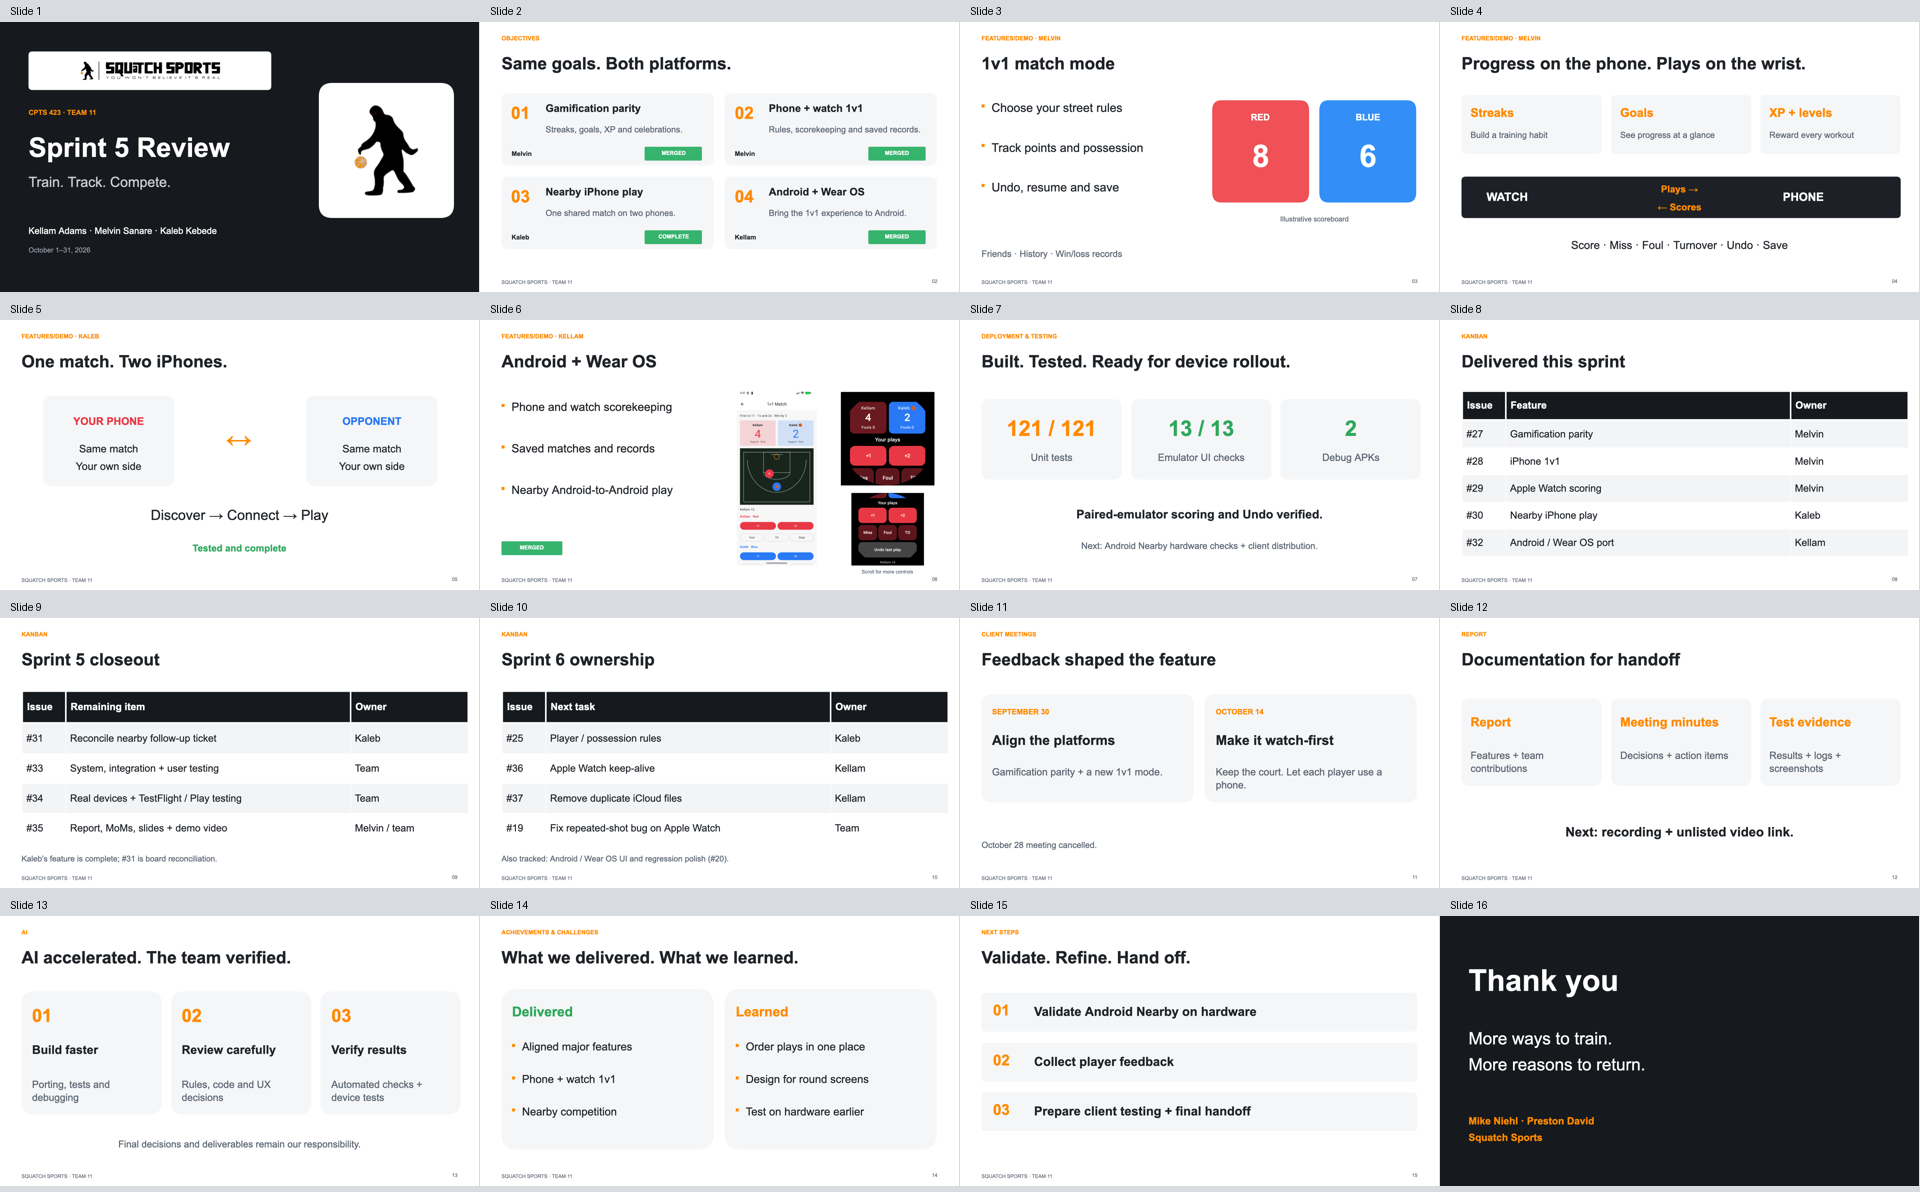
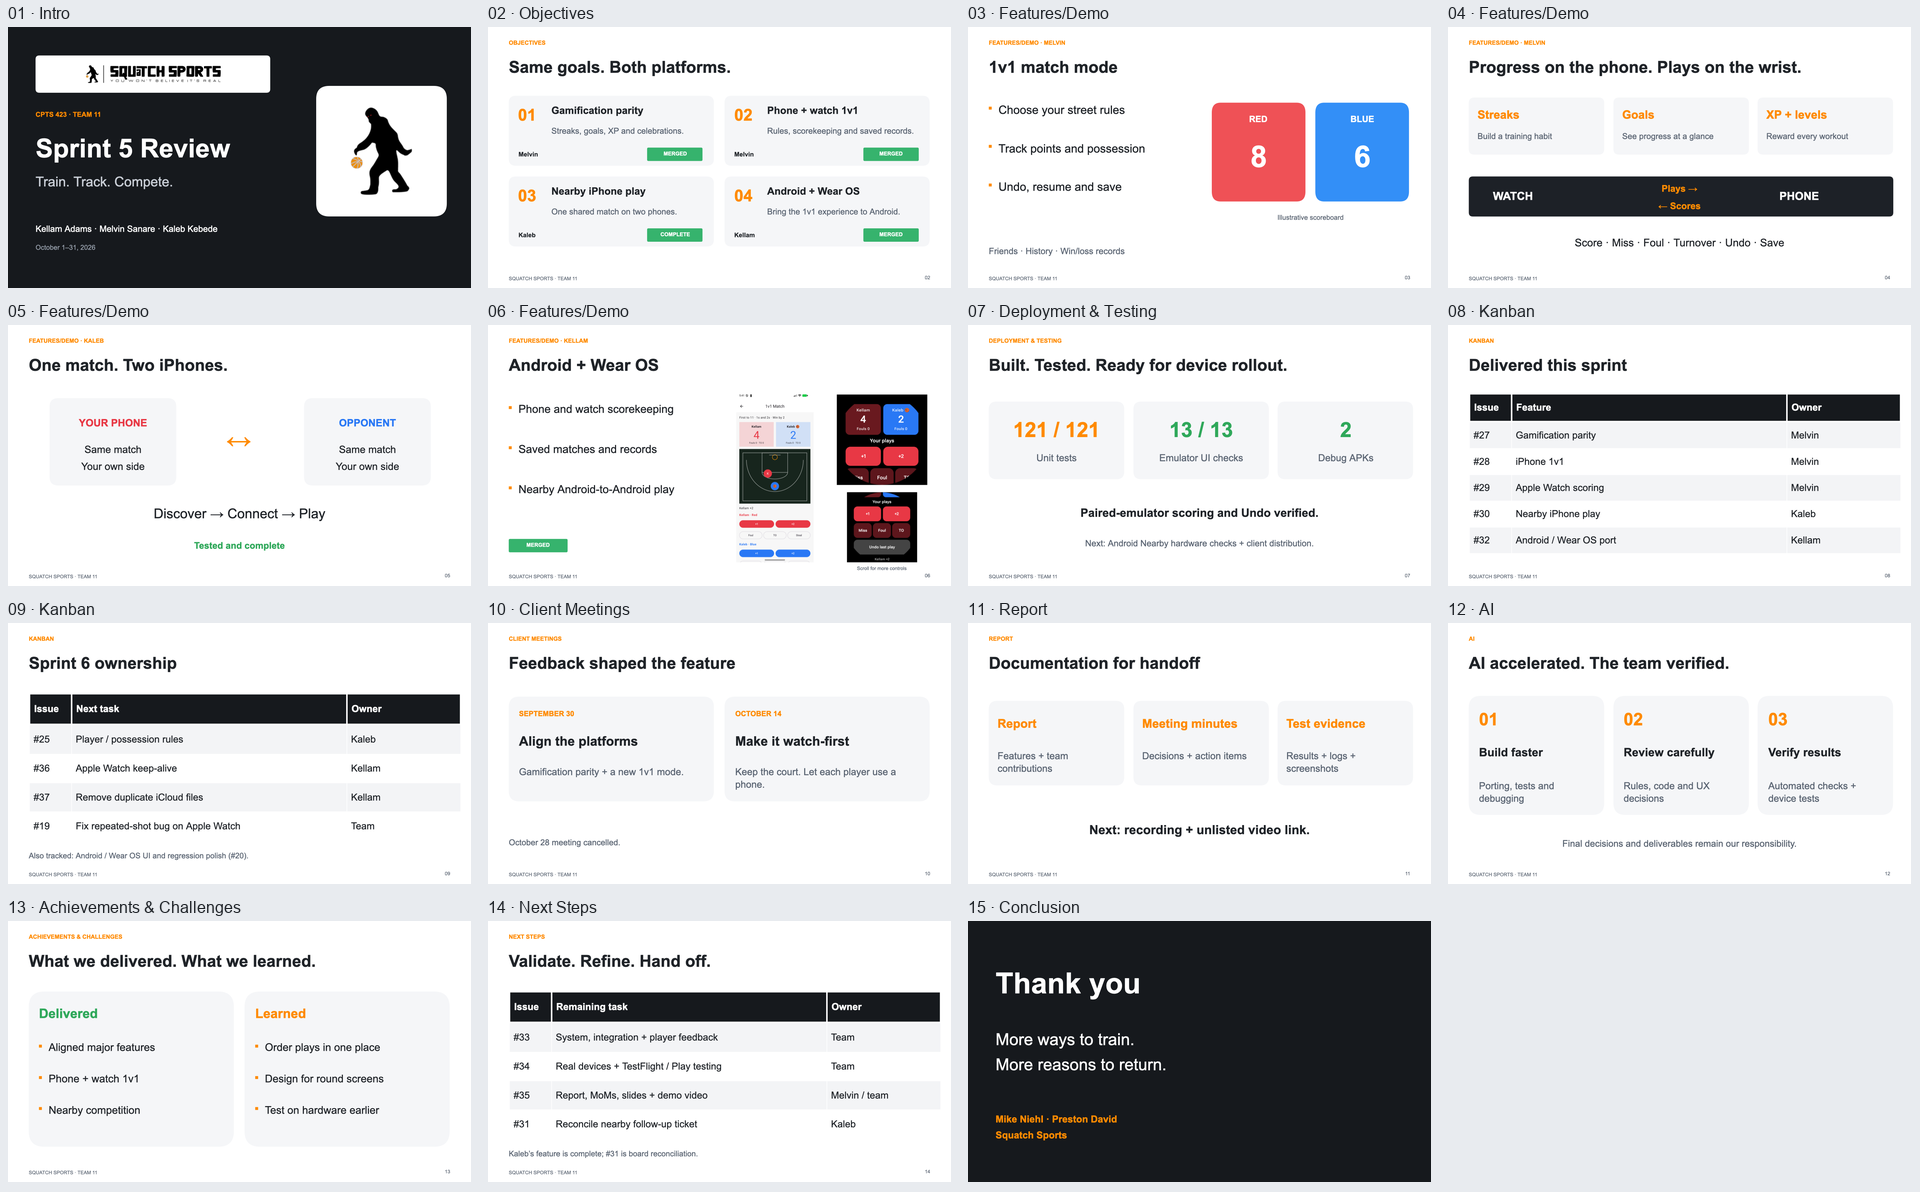
Remove separate Sprint 5 closeout slide and retain tasks in Next Steps

diff --git a/Sprints/Sprint_5/PPT/Sprint5_Presenter_Notes.md b/Sprints/Sprint_5/PPT/Sprint5_Presenter_Notes.md
@@ -1,6 +1,6 @@
 # Sprint 5 presenter notes
 
-Minimal 16-slide review. The full closeout and upcoming task lists stay visible; technical detail, source attribution and live-demo cues remain in the notes.
+Minimal 15-slide review. The separate Sprint 5 closeout slide is removed; remaining Sprint 5 tasks stay visible in Next Steps, and the Sprint 6 backlog stays visible in Kanban.
 
 Required order: Intro → Objectives → Features/Demo → Deployment & Testing → Kanban → Client Meetings → Report → AI → Achievements & Challenges → Next Steps → Conclusion
 
@@ -62,47 +62,41 @@ Sources: https://github.com/KellamA/Squatch-Sports-Team-11-Capstone-Project/issu
 
 ## Slide 9 — Kanban · Melvin (~35s)
 
-These Sprint 5 closeout items remain visible rather than being hidden in the notes. Issue 33 covers system/integration checks, latency and user feedback. Issue 34 covers physical devices and client TestFlight/Play internal testing. Issue 35 includes the report, meeting minutes, slides and actual recorded demo/video link; the presentation does not imply the video has been uploaded. Kaleb’s nearby feature is considered tested and complete per Kellam’s confirmation. The existing GitHub ticket 31 is still open, so its remaining presentation item is reconciling the board with that confirmed completion, not claiming the feature is untested.
-
-Sources: https://github.com/KellamA/Squatch-Sports-Team-11-Capstone-Project/issues/31; https://github.com/KellamA/Squatch-Sports-Team-11-Capstone-Project/issues/33; https://github.com/KellamA/Squatch-Sports-Team-11-Capstone-Project/issues/34; https://github.com/KellamA/Squatch-Sports-Team-11-Capstone-Project/issues/35
-
-## Slide 10 — Kanban · Melvin (~35s)
-
-The upcoming work stays visible: player/possession restrictions, Apple Watch workout keep-alive, duplicate-file cleanup and the older repeated-shot bug. Kellam owns issues 36 and 37 in this presentation as requested; the slide edit does not change GitHub assignee fields. Android/Wear OS UI, regression polish and the remaining edge cases also stay tracked under issue 20. The full Sprint 5 closeout work is on the previous slide so the backlog can be read without dense text or hiding tasks in the notes.
+The upcoming work stays visible: player/possession restrictions, Apple Watch workout keep-alive, duplicate-file cleanup and the older repeated-shot bug. Kellam owns issues 36 and 37 in this presentation as requested; the slide edit does not change GitHub assignee fields. Android/Wear OS UI, regression polish and the remaining edge cases also stay tracked under issue 20. The remaining Sprint 5 work is visible in the required Next Steps section; a separate closeout slide is not needed.
 
 Sources: https://github.com/KellamA/Squatch-Sports-Team-11-Capstone-Project/issues/25; https://github.com/KellamA/Squatch-Sports-Team-11-Capstone-Project/issues/36; https://github.com/KellamA/Squatch-Sports-Team-11-Capstone-Project/issues/37; https://github.com/KellamA/Squatch-Sports-Team-11-Capstone-Project/issues/19; https://github.com/KellamA/Squatch-Sports-Team-11-Capstone-Project/issues/20
 
-## Slide 11 — Client Meetings · Kaleb (~35s)
+## Slide 10 — Client Meetings · Kaleb (~35s)
 
 The September 30 Sprint 4 demo/planning meeting set parity and 1v1 as the next goals, with Apple implementation first and Android/Wear OS porting afterward. The October 14 review emphasized wrist input, preserving the existing court, and letting each player use their own phone. Online accounts were left for later. October 28 was cancelled and is not counted as a held meeting. Melvin’s documentation branch contains both minutes.
 
 Sources: https://github.com/KellamA/Squatch-Sports-Team-11-Capstone-Project/blob/melvin-sprint5-docs/Sprints/Sprint_5/MoM/MoM_2026-09-30.md; https://github.com/KellamA/Squatch-Sports-Team-11-Capstone-Project/blob/melvin-sprint5-docs/Sprints/Sprint_5/MoM/MoM_2026-10-14.md
 
-## Slide 12 — Report · Kaleb (~30s)
+## Slide 11 — Report · Kaleb (~30s)
 
 The report and meeting minutes were sourced from Melvin’s documentation branch, commit 86171e9. That draft predates the Android merge and latest team confirmation, so reconcile its old pending/local-only wording before submission. The Android verification package includes the screenshot, actual Gradle logs, JSON summaries and APK hashes. The presentation and speaker scripts are ready. The recording and actual unlisted video URL still need to be produced; no course submission, upload or client release is being claimed.
 
 Sources: https://github.com/KellamA/Squatch-Sports-Team-11-Capstone-Project/blob/melvin-sprint5-docs/Sprints/Sprint_5/Sprint_Report/Sprint5_Report.md; https://github.com/KellamA/Squatch-Sports-Team-11-Capstone-Project/tree/melvin-sprint5-docs/Sprints/Sprint_5/MoM; Sprints/Sprint_5/Testing/Android_Verification.md; https://github.com/KellamA/Squatch-Sports-Team-11-Capstone-Project/issues/35
 
-## Slide 13 — AI · Melvin (~45s)
+## Slide 12 — AI · Melvin (~45s)
 
 AI coding tools accelerated Swift-to-Kotlin porting, feature implementation, tests and diagnosis of emulator/toolchain issues. AI also helped organize this deck and the evidence package. Humans chose the gameplay rules, team split, watch UX and acceptance standards. A build or generated test alone cannot prove real-device radio behavior; the team reviews code and tests it in context. Kaleb’s iPhone testing is team-provided confirmation, distinct from the Android tests reproduced here. We remain responsible for the result and for completing the outstanding hardware and release checks.
 
 Sources: https://github.com/KellamA/Squatch-Sports-Team-11-Capstone-Project/blob/melvin-sprint5-docs/Sprints/Sprint_5/Sprint_Report/Sprint5_Report.md; Sprints/Sprint_5/Testing/Android_Verification.md
 
-## Slide 14 — Achievements & Challenges · Team (~45s)
+## Slide 13 — Achievements & Challenges · Team (~45s)
 
 The achievement is a full path from training and rewards into phone/watch 1v1 and nearby competition within each platform. Ordering guest commands at one host, saving IDs and replaying event logs handle duplicate and delayed plays. The Android SDK mismatch was solved by pinning a Nearby release compatible with the project’s Kotlin compiler rather than bypassing checks. Round watches require large controls plus scrolling/paging; we are not claiming that every screen is validated on every device. Kaleb’s feature is complete per team confirmation. Android physical Nearby checks, latency, client distribution and collected user feedback remain the key unfinished acceptance work.
 
 Sources: https://github.com/KellamA/Squatch-Sports-Team-11-Capstone-Project/blob/melvin-sprint5-docs/Sprints/Sprint_5/Sprint_Report/Sprint5_Report.md; android/README.md; android/gradle/libs.versions.toml
 
-## Slide 15 — Next Steps · Kellam (~40s)
+## Slide 14 — Next Steps · Kellam (~40s)
 
-The implementation is already merged, so the next work is acceptance and handoff rather than another Android publishing task. Test Android Nearby with two real phones and paired watches, record latency/reconnect behavior, collect actual player feedback and coordinate TestFlight/Play internal distribution with the client. Rehearse and record this sprint review, add the unlisted link and reconcile the report. Sprint 6 ownership is shown in the Kanban slide: Kaleb handles possession restrictions, and Kellam handles Apple Watch keep-alive plus repository cleanup. Mixed Android–iPhone games require a shared transport or backend and are not delivered here.
+The implementation is already merged, so the next work is acceptance and handoff rather than another Android publishing task. Issue 33 covers system/integration checks, latency, reconnect behavior and actual player feedback. Issue 34 covers physical-device checks and client TestFlight/Play internal distribution. Test Android Nearby with two real phones and paired watches. Issue 35 includes finishing the report, meeting minutes and slides, recording the review and adding the actual unlisted video URL; no upload is claimed. Kaleb’s nearby feature is tested and complete per team confirmation; issue 31 is board reconciliation, not unfinished feature work. Sprint 6 ownership stays visible in Kanban: Kaleb handles possession restrictions, and Kellam handles Apple Watch keep-alive plus repository cleanup. Mixed Android–iPhone games require a shared transport or backend and are not delivered here.
 
-Sources: https://github.com/KellamA/Squatch-Sports-Team-11-Capstone-Project/issues/33; https://github.com/KellamA/Squatch-Sports-Team-11-Capstone-Project/issues/34; https://github.com/KellamA/Squatch-Sports-Team-11-Capstone-Project/issues/35; https://github.com/KellamA/Squatch-Sports-Team-11-Capstone-Project/issues/25; https://github.com/KellamA/Squatch-Sports-Team-11-Capstone-Project/issues/36; https://github.com/KellamA/Squatch-Sports-Team-11-Capstone-Project/issues/37
+Sources: https://github.com/KellamA/Squatch-Sports-Team-11-Capstone-Project/issues/33; https://github.com/KellamA/Squatch-Sports-Team-11-Capstone-Project/issues/34; https://github.com/KellamA/Squatch-Sports-Team-11-Capstone-Project/issues/35; https://github.com/KellamA/Squatch-Sports-Team-11-Capstone-Project/issues/31; https://github.com/KellamA/Squatch-Sports-Team-11-Capstone-Project/issues/25; https://github.com/KellamA/Squatch-Sports-Team-11-Capstone-Project/issues/36; https://github.com/KellamA/Squatch-Sports-Team-11-Capstone-Project/issues/37
 
-## Slide 16 — Conclusion · Kellam (~20s)
+## Slide 15 — Conclusion · Kellam (~20s)
 
 Sprint 5 aligns the major feature set, adds 1v1 on phones and watches, and enables nearby games within each platform ecosystem. The Android port is merged; Kaleb’s nearby feature is tested and complete per team confirmation. Android hardware acceptance and client rollout are next. Thank you to Mike and Preston at Squatch Sports. We welcome questions and feedback.
 

diff --git a/Sprints/Sprint_5/PPT/README.md b/Sprints/Sprint_5/PPT/README.md
@@ -3,8 +3,8 @@
 ## Ready to use
 
 - **Deck:** [Sprint5_Review.pptx](Sprint5_Review.pptx)
-- **Slide overview:** [Slide_Overview.png](Slide_Overview.png) — native QuickLook renders of all 16 slides.
-- **Speaker scripts:** [Sprint5_Presenter_Notes.md](Sprint5_Presenter_Notes.md) — also embedded in all 16 slides.
+- **Slide overview:** [Slide_Overview.png](Slide_Overview.png) — native QuickLook renders of all 15 slides.
+- **Speaker scripts:** [Sprint5_Presenter_Notes.md](Sprint5_Presenter_Notes.md) — also embedded in all 15 slides.
 - **Recording plan:** [../Video/Sprint5_Demo.md](../Video/Sprint5_Demo.md)
 - **Build/test screenshot:** [../Testing/Android_Test_Results.png](../Testing/Android_Test_Results.png)
 - **Verification and handoff text:** [../Testing/Android_Verification.md](../Testing/Android_Verification.md)
@@ -19,7 +19,7 @@
 
 ## Minimal layout and required order
 
-This revision has **16 slides**, keeping the minimal visual style without dropping the backlog. Shorter titles, larger text, three-point feature summaries and simple Kanban tables replace dense status explanations. The complete Sprint 5 closeout and Sprint 6 task lists are visible on separate slides; only technical detail, source attribution, testing limits and demo instructions move into the notes. Kellam remains the owner shown for #36 and #37; the ordinary **MERGED** badge matches the other merged objectives.
+This revision has **15 slides**. The separate Sprint 5 Closeout slide has been removed. Completed deliverables and Sprint 6 ownership stay in Kanban (slides 8–9); the remaining Sprint 5 tasks stay visible in the required Next Steps section (slide 14). Shorter titles, larger text, three-point feature summaries and simple tables keep the deck minimal without hiding the backlog. Technical detail, source attribution, testing limits and demo instructions remain in the notes. Kellam remains the owner shown for #36 and #37; the ordinary **MERGED** badge matches the other merged objectives.
 
 The deck starts from the actual Sprint 4 PowerPoint package: same 16:9 size, master/layout, orange/charcoal palette, dark cover/conclusion, header hierarchy, cards, and team-oriented feature sections. Arial provides consistent rendering on macOS without requiring Calibri. The cover uses the app's existing Squatch Sports wordmark and mascot.
 
@@ -29,15 +29,15 @@ The deck starts from the actual Sprint 4 PowerPoint package: same 16:9 size, mas
 | Objectives | 2 |
 | Features/Demo | 3–6 |
 | Deployment & Testing | 7 |
-| Kanban | 8–10 |
-| Client Meetings | 11 |
-| Report | 12 |
-| AI | 13 |
-| Achievements & Challenges | 14 |
-| Next Steps | 15 |
-| Conclusion | 16 |
+| Kanban | 8–9 |
+| Client Meetings | 10 |
+| Report | 11 |
+| AI | 12 |
+| Achievements & Challenges | 13 |
+| Next Steps | 14 |
+| Conclusion | 15 |
 
-The saved package is checked for 16 slides, notes on every slide, the exact required section order, valid ZIP contents and in-bounds shapes. All slides are also rendered with macOS QuickLook and visually reviewed. This is native presentation-import validation, not a claim of testing inside Microsoft PowerPoint itself.
+The saved package is checked for 15 slides, notes on every slide, the exact required section order, valid ZIP contents and in-bounds shapes. All slides are also rendered with macOS QuickLook and visually reviewed. This is native presentation-import validation, not a claim of testing inside Microsoft PowerPoint itself.
 
 ## Sources and evidence
 

diff --git a/Sprints/Sprint_5/Video/Sprint5_Demo.md b/Sprints/Sprint_5/Video/Sprint5_Demo.md
@@ -4,7 +4,7 @@
 
 **Pending team recording and unlisted upload.** Insert the actual YouTube URL here and in the Sprint 5 report after upload. Repository merges do not imply that a video has been recorded or submitted.
 
-Present from [Sprint5_Review.pptx](../PPT/Sprint5_Review.pptx). All 16 slides contain speaker notes; a text copy is in [Sprint5_Presenter_Notes.md](../PPT/Sprint5_Presenter_Notes.md).
+Present from [Sprint5_Review.pptx](../PPT/Sprint5_Review.pptx). All 15 slides contain speaker notes; a text copy is in [Sprint5_Presenter_Notes.md](../PPT/Sprint5_Presenter_Notes.md).
 
 ## Current completion status
 
@@ -15,7 +15,7 @@ Present from [Sprint5_Review.pptx](../PPT/Sprint5_Review.pptx). All 16 slides co
 
 ## Suggested run of show (~12–14 minutes)
 
-These are planning estimates, not an existing recording. The slides are intentionally minimal, but the full closeout and upcoming tasks remain visible on slides 9–10. Use the speaker notes for explanation and allow extra time for live demos. The speaker-note timing totals about ten to eleven minutes; reserve another two to three minutes for demonstrations.
+These are planning estimates, not an existing recording. The separate Sprint 5 Closeout slide is removed. Sprint 6 ownership remains visible on slide 9, and the remaining Sprint 5 tasks are on the required Next Steps slide (14). Use the speaker notes for explanation and allow extra time for live demos. The speaker-note timing totals about ten minutes; reserve another two to three minutes for demonstrations.
 
 | Template section | Slides | Suggested presenter | Show / explain |
 |---|---|---|---|
@@ -25,13 +25,13 @@ These are planning estimates, not an existing recording. The slides are intentio
 | Features/Demo | 5 | Kaleb | Team-tested nearby iPhone match and paired-watch updates |
 | Features/Demo | 6 | Kellam | Android/Wear OS demo and Nearby flow |
 | Deployment & Testing | 7 | Kellam | 121 JVM checks, last clean 13 UI checks and two APKs |
-| Kanban | 8–10 | Melvin | Delivered features, full Sprint 5 closeout and Sprint 6 backlog; Kellam owns #36 and #37 |
-| Client Meetings | 11 | Kaleb | Sep 30 and Oct 14 minutes; Oct 28 cancelled |
-| Report | 12 | Kaleb | Report, MoMs, evidence and recording status |
-| AI | 13 | Melvin | Assistance, human review and verification |
-| Achievements & Challenges | 14 | Team | Delivered features and lessons learned |
-| Next Steps | 15 | Kellam | Android hardware validation, player feedback and handoff |
-| Conclusion | 16 | Kellam | Recap, acknowledge Squatch Sports, invite feedback |
+| Kanban | 8–9 | Melvin | Delivered features and Sprint 6 backlog; Kellam owns #36 and #37 |
+| Client Meetings | 10 | Kaleb | Sep 30 and Oct 14 minutes; Oct 28 cancelled |
+| Report | 11 | Kaleb | Report, MoMs, evidence and recording status |
+| AI | 12 | Melvin | Assistance, human review and verification |
+| Achievements & Challenges | 13 | Team | Delivered features and lessons learned |
+| Next Steps | 14 | Kellam | Remaining Sprint 5 testing, client rollout, report/video and board reconciliation tasks |
+| Conclusion | 15 | Kellam | Recap, acknowledge Squatch Sports, invite feedback |
 
 ## Android / Wear OS live demo (slide 6)
 
